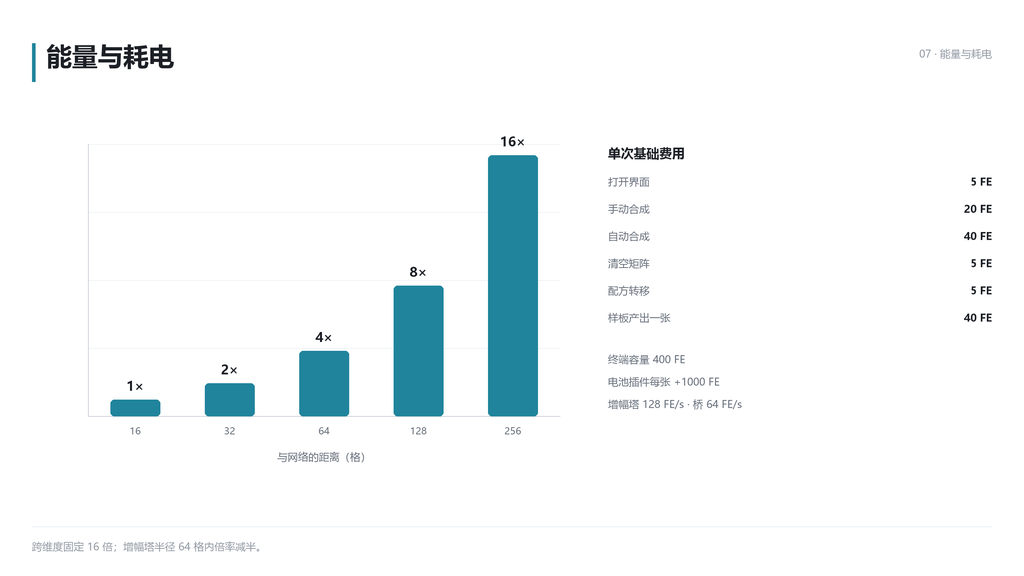
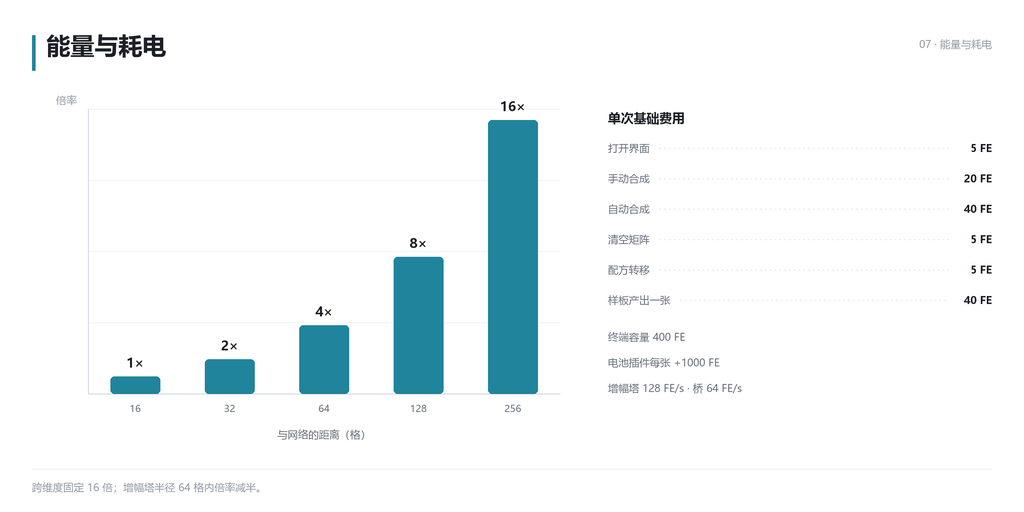
docs(mcmod): 配图改为 2:1 扁版 1024×512，重排七张版面
- 画布 1280×640，输出 1024×512，比 16:9 更扁，正文里不再占一大块高度
- 01 内容陈列改为 5×4、图标缩到 84，四行排满
- 02 终端卡片收紧，统计条上移
- 04 设备行放大到 150，工具行下移并补一行提示，填掉右下空白
- 05/06 配方卡片加高到 234，方格 36px
- 07 柱状图拉满纵向，费用列表补引导点线

diff --git a/gen_mcmod_sheets.py b/gen_mcmod_sheets.py
@@ -1,5 +1,5 @@
 #!/usr/bin/env python3
-"""MC百科配图（16:9，1280×720），按正文板块拆分。
+"""MC百科配图（2:1 扁版，1280×640 画布 → 1024×512），按正文板块拆分。
 
   01 特点      概念 + 20 件内容全展示
   02 终端      4 件终端与关键数值
@@ -34,8 +34,8 @@ LANG_ZH = os.path.join(
     "rswirelesscrafting", "lang", "zh_cn.json",
 )
 
-W, H = 1280, 720
-OUT_W, OUT_H = 1024, 576
+W, H = 1280, 640
+OUT_W, OUT_H = 1024, 512
 MARGIN = 40
 
 BG = (255, 255, 255)
@@ -48,6 +48,10 @@ SUB = (104, 112, 124)
 MUTED = (146, 154, 164)
 ACCENT = (32, 132, 156)
 DIVIDER = (233, 237, 242)
+
+# 版式基准：标题块占 40–100，正文自 110 起，底部注脚线在 H-54。
+TOP = 110
+FOOT = H - 54
 
 
 def icon(name):
@@ -190,16 +194,16 @@ def frame(kicker, title, sub=None, note=None):
     img.paste(Image.new("RGBA", img.size, BG + (255,)), (0, 0))
     d = ImageDraw.Draw(img)
 
-    d.rectangle([M.sc(MARGIN), M.sc(54), M.sc(MARGIN + 4), M.sc(102)], fill=ACCENT)
-    M.text(d, (MARGIN + 18, 48), title, 32, INK, bold=True)
+    d.rectangle([M.sc(MARGIN), M.sc(44), M.sc(MARGIN + 4), M.sc(88)], fill=ACCENT)
+    M.text(d, (MARGIN + 18, 36), title, 30, INK, bold=True)
     if sub:
-        M.text(d, (MARGIN + 18, 94), sub, 15, SUB)
-    M.text(d, (W - MARGIN, 58), kicker, 13, MUTED, anchor="ra")
+        M.text(d, (MARGIN + 18, 78), sub, 14, SUB)
+    M.text(d, (W - MARGIN, 46), kicker, 13, MUTED, anchor="ra")
 
     if note:
-        d.line([M.sc(MARGIN), M.sc(H - 62), M.sc(W - MARGIN), M.sc(H - 62)],
+        d.line([M.sc(MARGIN), M.sc(FOOT), M.sc(W - MARGIN), M.sc(FOOT)],
                fill=DIVIDER, width=M.sc(1))
-        M.text(d, (MARGIN, H - 46), note, 13, MUTED)
+        M.text(d, (MARGIN, H - 40), note, 13, MUTED)
     return img, d
 
 
@@ -220,6 +224,18 @@ def tile(img, x, y, size, icon_img, name, note, name_size=14, note_size=11, pad_
 def save(img, path):
     img.convert("RGB").resize((OUT_W, OUT_H), Image.LANCZOS).save(path)
     print("wrote", path)
+
+
+def leader(d, x0, x1, y, colour=(224, 230, 237)):
+    """标签与数值之间的浅色引导点线。"""
+    x = x0
+    while x < x1:
+        d.line([M.sc(x), M.sc(y), M.sc(min(x + 2, x1)), M.sc(y)], fill=colour, width=M.sc(1))
+        x += 6
+
+
+def text_width(d, value, size):
+    return d.textlength(value, font=M.font(size)) / M.S
 
 
 ITEMS = [
@@ -250,14 +266,16 @@ ITEMS = [
 
 def overview(path):
     img, d = frame("01 · 特点", "全部内容")
-    cols, rows = 5, 4
-    gap_x, gap_y = 18, 16
+    cols = 5
+    size = 84
+    gap_x, gap_y = 18, 14
+    pitch = size + 8 + 18 + gap_y
     cw = (W - MARGIN * 2 - gap_x * (cols - 1)) / cols
     for i, (key, name) in enumerate(ITEMS):
         r, c = divmod(i, cols)
         x = MARGIN + c * (cw + gap_x)
-        y = 126 + r * (128 + gap_y)
-        tile(img, x + (cw - 96) / 2, y, 96, icon(key), name, None, name_size=13)
+        y = TOP + r * pitch
+        tile(img, x + (cw - size) / 2, y, size, icon(key), name, None, name_size=13)
     save(img, path)
 
 
@@ -274,25 +292,26 @@ def terminals(path):
         ("wireless_monitor", "无线监控终端", "最多 4 条规则", "阈值提醒 / 自动补货"),
     ]
     cw, gap = 282, 24
+    top, bottom = TOP, 424
     x = MARGIN
     for key, name, line1, line2 in data:
-        d.rounded_rectangle([M.sc(x), M.sc(136), M.sc(x + cw), M.sc(474)],
+        d.rounded_rectangle([M.sc(x), M.sc(top), M.sc(x + cw), M.sc(bottom)],
                             radius=M.sc(16), fill=TILE, outline=TILE_BORDER, width=M.sc(1))
         img.alpha_composite(icon(key).resize((M.sc(156), M.sc(156)), Image.NEAREST),
-                            (M.sc(x + (cw - 156) / 2), M.sc(170)))
-        M.text(d, (x + cw / 2, 356), name, 18, INK, bold=True, anchor="ma")
-        M.text(d, (x + cw / 2, 394), line1, 13, SUB, anchor="ma")
-        M.text(d, (x + cw / 2, 422), line2, 13, ACCENT, anchor="ma")
+                            (M.sc(x + (cw - 156) / 2), M.sc(top + 16)))
+        M.text(d, (x + cw / 2, top + 190), name, 18, INK, bold=True, anchor="ma")
+        M.text(d, (x + cw / 2, top + 228), line1, 13, SUB, anchor="ma")
+        M.text(d, (x + cw / 2, top + 254), line2, 13, ACCENT, anchor="ma")
         x += cw + gap
 
     chips = [("终端容量", "400 FE"), ("插件槽位", "4 个"), ("单次费用", "5 – 40 FE")]
     cx = MARGIN
     for label, value in chips:
-        d.rounded_rectangle([M.sc(cx), M.sc(516), M.sc(cx + 372), M.sc(590)],
+        d.rounded_rectangle([M.sc(cx), M.sc(456), M.sc(cx + 372), M.sc(528)],
                             radius=M.sc(14), fill=(249, 251, 253),
                             outline=TILE_BORDER, width=M.sc(1))
-        M.text(d, (cx + 24, 538), label, 13, SUB)
-        M.text(d, (cx + 348, 532), value, 20, ACCENT, bold=True, anchor="ra")
+        M.text(d, (cx + 24, 480), label, 13, SUB)
+        M.text(d, (cx + 348, 474), value, 20, ACCENT, bold=True, anchor="ra")
         cx += 396
     save(img, path)
 
@@ -311,26 +330,27 @@ def upgrades(path):
         ("interdimensional_upgrade", "维度升级插件", "解锁跨维度访问", "需变送器 + 接收器"),
         ("remote_energy_upgrade", "远程输电插件", "扣电走绑定网络", "不足回落到电池"),
     ]
-    cw, ch = 386, 178
+    cw, ch = 386, 200
     gap = 20
     for i, (key, name, eff, note) in enumerate(data):
         r, c = divmod(i, 3)
         x = MARGIN + c * (cw + gap)
-        y = 138 + r * (ch + 18)
+        y = TOP + r * (ch + 20)
         d.rounded_rectangle([M.sc(x), M.sc(y), M.sc(x + cw), M.sc(y + ch)],
                             radius=M.sc(16), fill=TILE, outline=TILE_BORDER, width=M.sc(1))
         img.alpha_composite(icon(key).resize((M.sc(72), M.sc(72)), Image.NEAREST),
-                            (M.sc(x + 24), M.sc(y + 52)))
-        M.text(d, (x + 116, y + 46), name, 17, INK, bold=True)
-        M.text(d, (x + 116, y + 82), eff, 14, SUB)
-        M.text(d, (x + 116, y + 110), note, 13, ACCENT)
+                            (M.sc(x + 26), M.sc(y + 58)))
+        M.text(d, (x + 118, y + 50), name, 17, INK, bold=True)
+        M.text(d, (x + 118, y + 90), eff, 14, SUB)
+        M.text(d, (x + 118, y + 120), note, 13, ACCENT)
     save(img, path)
 
 
 # ------------------------------------------------------------------ 04
 
 def devices_tools(path):
-    img, d = frame("04 · 设备与工具", "七件设备 · 三件工具")
+    img, d = frame("04 · 设备与工具", "七件设备 · 三件工具",
+                   note="方块设备用无线连接器绑定；绑定后与终端共用同一张网络的电量。")
 
     devices = [
         ("terminal_charging_station", "终端充电站", "3 槽 · 待机 128 FE/s"),
@@ -341,15 +361,15 @@ def devices_tools(path):
         ("smart_sorter", "智能分拣站", "3×3 过滤 · 按物品/标签"),
         ("network_bridge", "网络桥接器", "两张网络互通"),
     ]
-    size = 140
-    gap = 17
+    size = 150
+    gap = 16
     total = len(devices) * size + (len(devices) - 1) * gap
     x = (W - total) / 2
     for key, name, note in devices:
-        tile(img, x, 136, size, icon(key), name, note, name_size=13, note_size=11)
+        tile(img, x, 104, size, icon(key), name, note, name_size=13, note_size=11)
         x += size + gap
 
-    d.line([M.sc(MARGIN), M.sc(362), M.sc(W - MARGIN), M.sc(362)], fill=DIVIDER, width=M.sc(1))
+    d.line([M.sc(MARGIN), M.sc(312), M.sc(W - MARGIN), M.sc(312)], fill=DIVIDER, width=M.sc(1))
 
     tools = [
         ("wireless_connector", "无线连接器", "绑定方块设备"),
@@ -358,18 +378,19 @@ def devices_tools(path):
     ]
     x = MARGIN
     for key, name, note in tools:
-        tile(img, x, 400, 152, icon(key), name, note, name_size=13, note_size=11)
-        x += 152 + 24
+        tile(img, x, 344, 144, icon(key), name, note, name_size=13, note_size=11)
+        x += 144 + 24
 
-    bx = 520
-    M.text(d, (bx, 404), "绑定方块设备的方式", 15, INK, bold=True)
+    bx = 548
+    M.text(d, (bx, 348), "绑定方块设备的方式", 15, INK, bold=True)
     steps = [
         "① 手持连接器，右键任意精致存储网络方块，记录接入点",
         "② 右键要绑定的设备，完成绑定；两端亮起光环与粒子线",
         "③ 再次右键已绑定的设备即解绑；潜行右键清除记录",
     ]
     for i, line in enumerate(steps):
-        M.text(d, (bx, 440 + i * 42), line, 13, SUB)
+        M.text(d, (bx, 392 + i * 46), line, 13, SUB)
+    M.text(d, (bx, 530), "接入点会留在连接器里，可以连续绑定多台设备。", 13, ACCENT)
     save(img, path)
 
 
@@ -381,8 +402,8 @@ def recipe_card(img, x, y, w, h, recipe, name):
                         radius=M.sc(14), fill=CARD, outline=BORDER, width=M.sc(1))
     M.text(d, (x + 16, y + 14), name, 15, INK, bold=True)
 
-    cell_size, gap = 34, 4
-    gx0, gy0 = x + 16, y + 56
+    cell_size, gap = 36, 4
+    gx0, gy0 = x + 16, y + 64
     for r, row in enumerate(recipe["pattern"]):
         for c, ch in enumerate(row):
             if ch == " ":
@@ -401,14 +422,14 @@ def recipe_card(img, x, y, w, h, recipe, name):
     ax = gx0 + grid_w + 8
     M.arrow(d, ax, cy, ax + 22)
     rx = ax + 26
-    d.rounded_rectangle([M.sc(rx), M.sc(cy - 21), M.sc(rx + 42), M.sc(cy + 21)],
+    d.rounded_rectangle([M.sc(rx), M.sc(cy - 22), M.sc(rx + 44), M.sc(cy + 22)],
                         radius=M.sc(8), fill=TILE, outline=TILE_BORDER, width=M.sc(1))
     img.alpha_composite(
-        icon(recipe["result"]["id"].split(":")[1]).resize((M.sc(36), M.sc(36)), Image.NEAREST),
-        (M.sc(rx + 3), M.sc(cy - 18)))
+        icon(recipe["result"]["id"].split(":")[1]).resize((M.sc(38), M.sc(38)), Image.NEAREST),
+        (M.sc(rx + 3), M.sc(cy - 19)))
 
     materials = len({json.dumps(v, sort_keys=True) for v in recipe["key"].values()})
-    M.text(d, (x + 16, y + h - 34), "有序合成 · %d 种材料" % materials, 11, MUTED)
+    M.text(d, (x + 16, y + h - 32), "有序合成 · %d 种材料" % materials, 11, MUTED)
 
 
 def recipes(path, part):
@@ -428,7 +449,7 @@ def recipes(path, part):
     cw = (W - MARGIN * 2 - gap * (cols - 1)) / cols
     for i, (recipe, name) in enumerate(chunk):
         r, c = divmod(i, cols)
-        recipe_card(img, MARGIN + c * (cw + gap), 150 + r * 244, cw, 226, recipe, name)
+        recipe_card(img, MARGIN + c * (cw + gap), 112 + r * 240, cw, 234, recipe, name)
     save(img, path)
 
 
@@ -438,7 +459,7 @@ def energy(path):
     img, d = frame("07 · 能量与耗电", "能量与耗电",
                    note="跨维度固定 16 倍；增幅塔半径 64 格内倍率减半。")
 
-    left, right, top, bottom = 110, 700, 180, 520
+    left, right, top, bottom = 110, 700, 136, 492
     values = [1, 2, 4, 8, 16]
     labels = ["16", "32", "64", "128", "256"]
     for i in range(5):
@@ -457,20 +478,22 @@ def energy(path):
                             radius=M.sc(5), fill=ACCENT)
         M.text(d, (x0 + bar_w / 2, y0 - 28), "%d×" % v, 16, INK, bold=True, anchor="ma")
         M.text(d, (x0 + bar_w / 2, bottom + 10), labels[i], 12, SUB, anchor="ma")
+    M.text(d, (left - 14, top - 20), "倍率", 13, MUTED, anchor="ra")
     M.text(d, ((left + right) / 2, bottom + 42), "与网络的距离（格）", 13, SUB, anchor="ma")
 
     fx = 760
-    M.text(d, (fx, 180), "单次基础费用", 16, INK, bold=True)
+    M.text(d, (fx, 136), "单次基础费用", 16, INK, bold=True)
     fees = [("打开界面", "5 FE"), ("手动合成", "20 FE"), ("自动合成", "40 FE"),
             ("清空矩阵", "5 FE"), ("配方转移", "5 FE"), ("样板产出一张", "40 FE")]
     for i, (label, value) in enumerate(fees):
-        yy = 218 + i * 34
+        yy = 176 + i * 38
         M.text(d, (fx, yy), label, 13, SUB)
+        leader(d, fx + text_width(d, label, 13) + 12, W - MARGIN - 54, yy + 9)
         M.text(d, (W - MARGIN, yy), value, 13, INK, bold=True, anchor="ra")
 
-    M.text(d, (fx, 440), "终端容量 400 FE", 13, SUB)
-    M.text(d, (fx, 468), "电池插件每张 +1000 FE", 13, SUB)
-    M.text(d, (fx, 496), "增幅塔 128 FE/s · 桥 64 FE/s", 13, SUB)
+    M.text(d, (fx, 412), "终端容量 400 FE", 13, SUB)
+    M.text(d, (fx, 444), "电池插件每张 +1000 FE", 13, SUB)
+    M.text(d, (fx, 476), "增幅塔 128 FE/s · 桥 64 FE/s", 13, SUB)
     save(img, path)
 
 

diff --git a/docs/MCMOD.md b/docs/MCMOD.md
@@ -181,7 +181,7 @@
 
 ## 三、图片清单
 
-共 8 张：1 张封面 + 7 张 16:9（1024×576）正文配图。每张对应正文一个板块，版式统一（左上标题、右上板块编号，不写副标题），图片只保留名称与数值，不写说明性文案。均在编辑器内本地上传，文件位于 `docs/images/`。
+共 8 张：1 张封面 + 7 张 2:1（1024×512）正文配图。每张对应正文一个板块，版式统一（左上标题、右上板块编号，不写副标题），图片只保留名称与数值，不写说明性文案。均在编辑器内本地上传，文件位于 `docs/images/`。
 
 | 顺序 | 文件 | 对应标题 | 内容 |
 |---|---|---|---|
